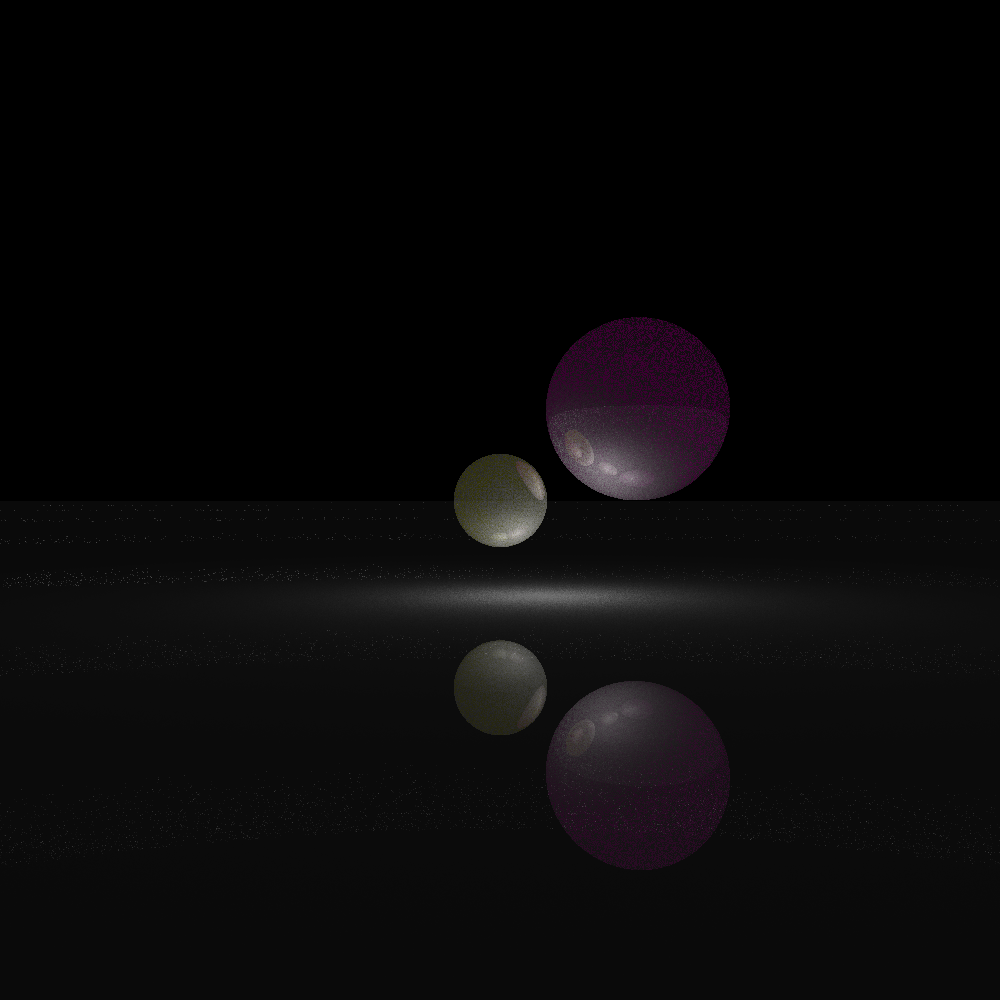
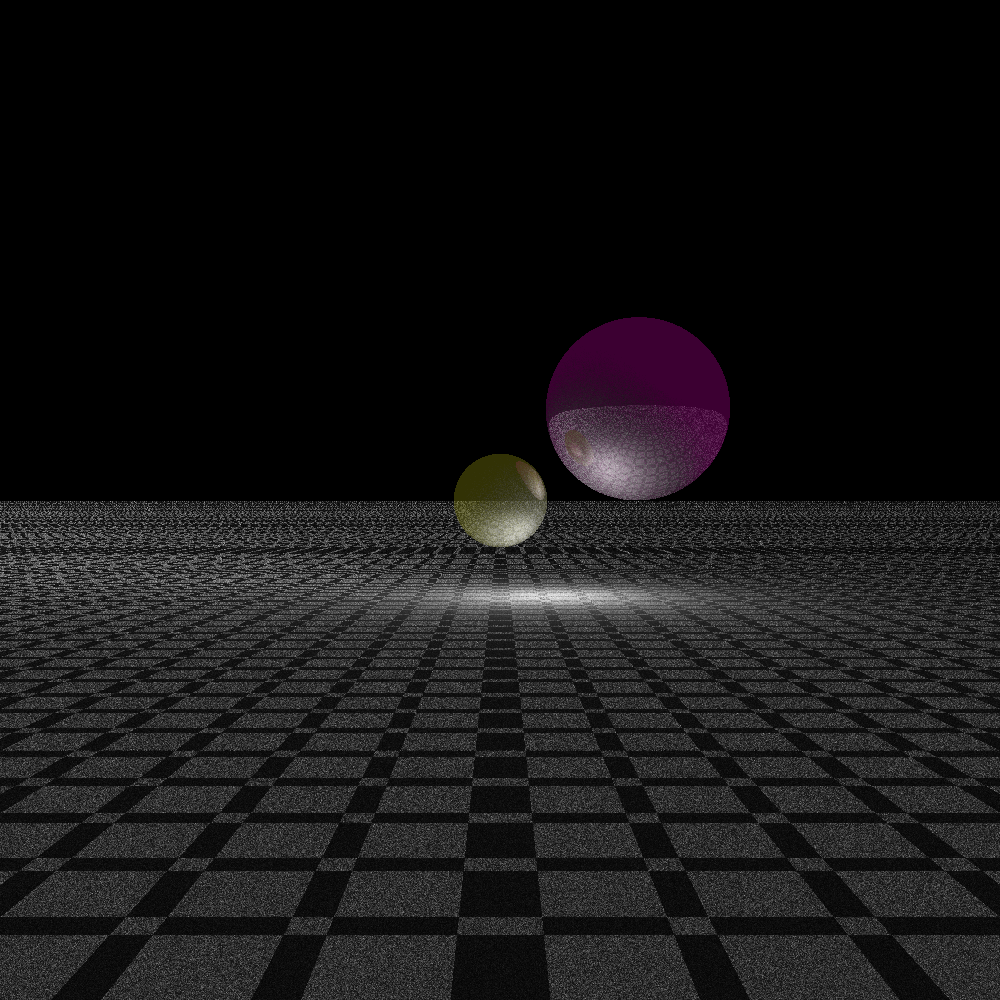
add : checkboard material

Changed region(s): [[0.0, 0.31, 1.0, 1.0]]

diff --git a/src/plugins/Vanille/Materials/Check.material.v.cpp b/src/plugins/Vanille/Materials/Check.material.v.cpp
@@ -1,0 +1,80 @@
+/*
+** EPITECH PROJECT, 2022
+** raytracer
+** File description:
+** Check.material.v.cpp
+*/
+
+#include "Renderer.hpp"
+#include "Check.material.v.hpp"
+
+namespace vanille
+{
+    CheckMaterial_v::CheckMaterial_v() : render::IMaterial()
+    {
+        _color1 = sf::Color::White;
+        _color2 = sf::Color::Black;
+    }
+    void CheckMaterial_v::getColor(int &r, int &g, int &b,
+        __attribute__((unused)) geo::vec3 point) const
+    {
+        if ((int)point.x % 4 == 0 ^ (int)point.y % 4 == 0 ^ (int)point.z % 4 == 0) {
+            r = _color1.r;
+            g = _color1.g;
+            b = _color1.b;
+        } else {
+            r = _color2.r;
+            g = _color2.g;
+            b = _color2.b;
+        }
+    }
+    float CheckMaterial_v::getProperty(const std::string &name) const
+    {
+        try {
+            return _properties.at(name);
+        } catch (std::out_of_range &e) {
+            std::cerr << render::yellow << "[WARNING] " << render::no_color
+                << "Property " << name << " not found in material" << std::endl;
+            return 0;
+        }
+    }
+
+    void CheckMaterial_v::selfInit(libconfig::Setting &setting, render::Entity *parent)
+    {
+        _parent = parent;
+        if (setting.exists("color1")) {
+            libconfig::Setting &color = setting["color1"];
+            int r = color["r"];
+            int g = color["g"];
+            int b = color["b"];
+            _color1 = sf::Color(r, g, b);
+        } else {
+            std::cout << render::yellow << "[WARNING] " << render::no_color
+                << "No color found in material" << std::endl;
+        }
+        if (setting.exists("color2")) {
+            libconfig::Setting &color = setting["color2"];
+            int r = color["r"];
+            int g = color["g"];
+            int b = color["b"];
+            _color2 = sf::Color(r, g, b);
+        } else {
+            std::cout << render::yellow << "[WARNING] " << render::no_color
+                << "No color found in material" << std::endl;
+        }
+        if (setting.exists("shininess")) {
+            libconfig::Setting &shininess = setting["shininess"];
+            _properties["shininess"] = shininess;
+        } else {
+            std::cout << render::yellow << "[WARNING] " << render::no_color
+                << "No shininess found in material" << std::endl;
+        }
+    }
+} // namespace v
+
+extern "C" {
+    vanille::CheckMaterial_v *entryPoint()
+    {
+        return new vanille::CheckMaterial_v();
+    }
+}

diff --git a/src/plugins/Vanille/Materials/Check.material.v.hpp b/src/plugins/Vanille/Materials/Check.material.v.hpp
@@ -1,0 +1,31 @@
+/*
+** EPITECH PROJECT, 2022
+** raytracer
+** File description:
+** Check.material.v hpp
+*/
+
+#pragma once
+
+#include <SFML/Graphics.hpp>
+#include "Plugin.hpp"
+#include "IMaterial.hpp"
+
+namespace vanille {
+    class CheckMaterial_v : public render::IMaterial {
+        public:
+            CheckMaterial_v();
+            ~CheckMaterial_v() = default;
+            void selfInit(libconfig::Setting &setting, render::Entity *parent) override;
+            void getColor(int &r, int &g, int &b, geo::vec3 point) const override;
+            float getProperty(const std::string &name) const override;
+        private:
+            std::map<std::string, float> _properties = {
+                {"reflectivity", 0},
+                {"shininess", 0},
+            };
+            sf::Color _color1;
+            sf::Color _color2;
+            render::Entity *_parent;
+    };
+}
